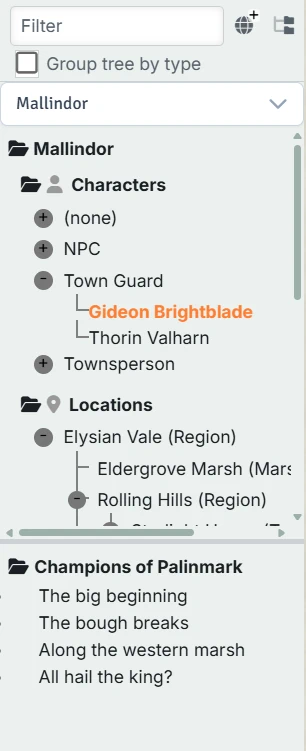
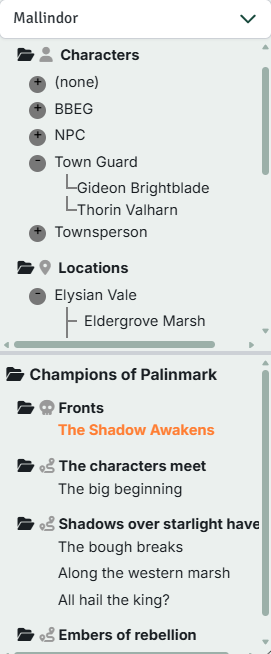
front doc updates

diff --git a/src/components/ContentTab/FrontContent/FrontDangerTab.vue b/src/components/ContentTab/FrontContent/FrontDangerTab.vue
@@ -81,13 +81,11 @@
         }"
       >
         <div class="flexrow form-group">
-          <TextArea
-            v-model="motivation"
-            rows="3"
-            data-testid="danger-motivation"
-            unstyled
-            style="width: 100%; font-family: var(--fcb-font-family)"
-            @update:model-value="onMotivationUpdate"
+          <Editor
+            :initial-content="motivation || ''"
+            fixed-height="120px"
+            :current-entity-uuid="currentFront?.uuid"
+            @editor-saved="onMotivationEditorSaved"
           />
         </div>
       </Panel>
@@ -165,7 +163,6 @@
   // debounce changes to name
   let nameDebounceTimer: NodeJS.Timeout | undefined = undefined;
   let impendingDoomTimer: NodeJS.Timeout | undefined = undefined;
-  let motivationTimer: NodeJS.Timeout | undefined = undefined;
 
   const onNameUpdate = (newName: string | undefined) => {
     const debounceTime = 500;
@@ -206,22 +203,13 @@
     }, debounceTime);
   };
 
-  const onMotivationUpdate = (newMotivation: string | undefined) => {
-    const debounceTime = 500;
-  
-    clearTimeout(motivationTimer);
+  const onMotivationEditorSaved = (newMotivation: string) => {
+    if (!currentDanger.value) return;
     
-    motivationTimer = setTimeout(async () => {
-      const newValue = newMotivation || '';
-
-      if (currentFront.value && currentDanger.value && currentDangerIndex.value !== null && currentDanger.value.motivation!==newValue) {
-        currentDanger.value.motivation = newValue;
-        currentFront.value.updateDanger(currentDangerIndex.value, currentDanger.value);
-        await currentFront.value.save();
-      }
-    }, debounceTime);
+    currentDanger.value.motivation = newMotivation;
+    saveDanger();
   };
-  
+
   const onDescriptionEditorSaved = (newContent: string) => {
     if (!currentDanger.value) return;
     

diff --git a/docs/.vitepress/config.ts b/docs/.vitepress/config.ts
@@ -79,6 +79,7 @@ export default defineConfig({
           { text: 'Campaign Management', link: '/reference/campaign-mgt/', items: [
             { text: 'Campaigns', link: '/reference/campaign-mgt/content/campaign/' },
             { text: 'Sessions', link: '/reference/campaign-mgt/content/session/' },
+            { text: 'Fronts', link: '/reference/campaign-mgt/content/front/' },
             { text: 'To-do List', link: '/reference/campaign-mgt/content/campaign/todos' },
           ] },
           { text: 'Play Mode', link: '/reference/play-mode/' },

diff --git a/src/components/ContentTab/DescriptionTab.vue b/src/components/ContentTab/DescriptionTab.vue
@@ -3,6 +3,7 @@
     <div class="tab-inner">
       <div class="fcb-description-wrapper flexrow">
         <ImagePicker
+          v-if="props.showImage"
           class="fcb-description-image"
           v-model="currentImageURL"
           :title="props.name"
@@ -43,6 +44,11 @@
     imageUrl: {
       type: String,
       default: '',
+      required: false,
+    },
+    showImage: {
+      type: Boolean,
+      default: true,
       required: false,
     },
     name: {

diff --git a/src/components/ContentTab/FrontContent/FrontContent.vue b/src/components/ContentTab/FrontContent/FrontContent.vue
@@ -7,6 +7,7 @@
           v-model="name"
           for="fcb-input-name" 
           class="fcb-input-name"
+          :showImage="false"
           unstyled
           :placeholder="localize('placeholders.frontName')"
           :pt="{

diff --git a/docs/.vitepress/theme/utils/version.ts b/docs/.vitepress/theme/utils/version.ts
@@ -1,2 +1,2 @@
 // This file is auto-generated. Do not edit directly.
-export const VERSION = '1.5.0';
+export const VERSION = '1.6.0';

diff --git a/docs/reference/campaign-mgt/content/front/dangers.md b/docs/reference/campaign-mgt/content/front/dangers.md
@@ -1,0 +1,72 @@
+---
+title: Dangers in a Front
+prev: 
+  text: 'Front Details'
+  link: '/reference/campaign-mgt/content/front'
+next: 
+  text: 'To-do List'
+  link: '/reference/campaign-mgt/content/campaign/todos'
+---
+
+# Danger Details
+
+![Danger content](/assets/images/danger-content.webp)
+
+Each [^Front] is made up of one or more [^Dangers]. A Danger is a specific threat, plotline, or situation that can move toward an [^Impending Doom] as time passes and the characters act (or fail to act).
+
+### Creating a New Danger
+
+To add a new Danger to a Front:
+
+1. Open the Front in the main content area.
+2. Click the `+` button on the Front’s tab strip.
+3. A new Danger is created and a tab for it appears.
+
+### Danger Name
+
+Click on the Danger’s name to edit it.
+
+## Danger Sections
+
+Each Danger includes the following sections:
+
+* **Overview**
+* **Participants**
+* **Motivation**
+* **Grim Portents**
+
+Each of these panels can be collapsed with the '-' button in the top right corner.
+
+### Overview
+![Danger overview](/assets/images/danger-overview.webp)
+
+The Overview panel lets you record the description for the Danger, as well as the [^Impending Doom].
+
+### Participants
+![Danger participants](/assets/images/danger-participants.webp)
+
+Participants represent the people and organizations involved in a Danger. They answer the question: *"Who is driving or affected by this threat?"*
+
+This panel has a table listing the [^Entries] (Characters or Organizations) involved in the Danger, along with their role.
+
+You can add participants by dragging and dropping them from the [^Setting Directory] or by clicking the 'Add Participant' button.
+
+Generally there will be one main Participant and their henchmen.  If Participants are on different 'sides', working toward the Front in different ways, each side should be a separate Danger.
+
+### Motivation
+![Danger motivation](/assets/images/danger-motivation.webp)
+Record the motivation for the Danger and/or the various participants.
+
+### Grim Portents
+![Danger grim portents](/assets/images/danger-portents.webp)
+Grim portents are the steps that move a Danger toward its Impending Doom. They make it easy to see what happens if the characters ignore (or worsen) the situation.
+
+Think of grim portents as a short, ordered list of events:
+
+1. The Danger advances in some visible way.
+2. The world reacts.
+3. The threat gets closer to its goal.
+
+As you play, you can check off grim portents as they occur, reflecting how the Front is progressing.
+
+You can drag rows up and down to change the order in which the grim portents appear.

diff --git a/docs/.vitepress/theme/plugins/tooltip/common-tooltips.md b/docs/.vitepress/theme/plugins/tooltip/common-tooltips.md
@@ -40,3 +40,10 @@
 [^Types]: The user-defined categorizations of Entries to assist in finding Entries within a Topic. For example, Characters might have Types such as NPC, PC, Monster, etc.; Locations could have Types such as City, Town, Dungeon, Ruin, etc.  They can be shown in the Setting tree, and are used to facilitate search and AI character description/image creation.
 [^Vignette]: Called "Scenes" by The Lazy DM, a potential element that can be used to build a session. They are not necessarily a fixed, linear script but rather a collection of ideas, encounters, or plot points that can be woven together depending on player actions and the flow of the game.
 [^Vignettes]: Called "Scenes" by The Lazy DM, potential elements that can be used to build a session. They are not necessarily a fixed, linear script but rather a collection of ideas, encounters, or plot points that can be woven together depending on player actions and the flow of the game.
+[^Front]: An organizational tool for the GM to manage larger-scale threats and story threads, ensuring the world feels dynamic and reactive even if the players aren't directly involved. Fronts are collections of dangers - forces and events that a Front moves forward according to its own timeline, regardless of player actions
+[^Fronts]: Organizational tool for the GM to manage larger-scale threats and story threads, ensuring the world feels dynamic and reactive even if the players aren't directly involved. Fronts are collections of dangers - forces and events that a Front moves forward according to its own timeline, regardless of player actions
+[^Danger]: A significant threat or an active, driving force within a larger Front
+[^Dangers]: Significant threats or active, driving forces within a larger Front
+[^Grim Portent]: A step in the timeline of a Danger that moves it toward its Impending Doom
+[^Grim Portents]: Steps in the timeline of a Danger that move it toward its Impending Doom
+[^Impending Doom]: The end-state or worst-case outcome of a Danger

diff --git a/docs/reference/navigation/sidebar.md b/docs/reference/navigation/sidebar.md
@@ -66,15 +66,20 @@ The bottom half of the Directory Sidebar is the Campaign Directory.  This shows 
 
 Each Campaign is shown as a folder.  Click the Campaign name to open a [Campaign Details tab](/reference/campaign-mgt/content/campaign/).
 
-Within each Campaign, you'll find all of its [^Sessions].  You can click on a Session to open a [Session Details tab](/reference/campaign-mgt/content/session/).  
+Within each Campaign, you'll find all of its [^Sessions] and [Fronts](/reference/campaign-mgt/content/front/).  You can click on a Session to open a [Session Details tab](/reference/campaign-mgt/content/session/) or on a Front to open a [Front Details tab](/reference/campaign-mgt/content/front/).  
 
-### Session sorting
-By default, the Sessions are sorted by session number.  You can rearrange the Sessions (i.e. change their numbers) by editing the number in [Session Details](/reference/campaign-mgt/content/session/).
+### Session display
+Sessions are sorted by session number.  You can rearrange the Sessions (i.e. change their numbers) by editing the number in [Session Details](/reference/campaign-mgt/content/session/).
+
+
+By default, Sessions are shown with their number in the directory.  You can hover over a Session to see its name and date.  You can also choose to show the Sessions by name and/or date in [Module Settings].
 
 ### Context menus
 Right-clicking on items in the Campaign tree provides additional options depending on the item type:
-1. Campaign - Create a session, Delete the Campaign, Mark Campaign Complete/Active
+1. Campaign - Create a session, Create a Front, Delete the Campaign, Mark Campaign Complete/Active
 2. Session - Delete the Session
+3. Fronts folder - Create a front
+4. Front - Delete the Front
 
 "Completing" a campaign does not remove any of the data associated with it, but has the following effects:
 - Grays it out and keeps it collapsed in the tree

diff --git a/docs/guide/session-prep/index.md b/docs/guide/session-prep/index.md
@@ -20,6 +20,7 @@ Before prepping for a session, you first have to create the overall [^Campaign] 
 * [Create](/reference/campaign-mgt/content/campaign/) your Campaign
 * Attach the [PCs](/reference/campaign-mgt/content/campaign/pcs) to the campaign
 * Start to capture your [Ideas](/reference/campaign-mgt/content/campaign/ideas)
+* Create or update [Fronts](/reference/campaign-mgt/content/front/) to track long-term threats and storylines for the campaign
 
 ### Sessions
 * Review [PCs](/reference/campaign-mgt/content/session/pcs) - think through plot points to bring in to the next game
@@ -41,6 +42,17 @@ Before prepping for a session, you first have to create the overall [^Campaign] 
 * [Campaign Directory](/reference/navigation/sidebar#campaign-directory)
 * [Campaign Details](/reference/campaign-mgt/content/campaign/)
 * [Session Details](/reference/campaign-mgt/content/session/)
+* [Front Details](/reference/campaign-mgt/content/front/)
+
+## Fronts and long-term threats
+[Fronts] are an optional tool for tracking larger-scale threats and story threads across many sessions. A [^Front] is made up of one or more [^Dangers], each with [^Grim Portents] and an [^Impending Doom].
+
+If you like to think about how the world changes off-screen, or want to keep track of villain plans and looming disasters, Fronts give you a home for that work:
+- During **World Building**, you create the people, places, and organizations that Fronts will later reference.
+- During **Session Prep**, you can update Fronts so their Dangers are ready to intersect with the next session.  You can mark Grim Portents complete as events unfold.
+- When you **Record Results**, you can adjust Fronts based on what actually happened at the table.
+
+You can safely ignore Fronts if you don’t need this level of structure, or turn them off entirely in [Module Settings].
 
 ## Sample Session Preparation Walkthrough
 

diff --git a/docs/guide/session-play/index.md b/docs/guide/session-play/index.md
@@ -30,49 +30,5 @@ Time for the fun!  Campaign Builder has a variety of tools and techniques to run
 * [Name-Generation Buttons](/reference/play-mode/name-generation)
 * [Session Links](/reference/play-mode/session-links)
 * [Campaign To-do List](/reference/campaign-mgt/content/campaign/todos)
+* [Front Details](/reference/campaign-mgt/content/front/)
 
-
-<!-- # Playing a Session
-
-The module provides several features to help you run your game smoothly.
-
-## Session Management
-
-During a session:
-1. Open the Campaign Planning tab
-
-2. Select the current session
-
-3. Use the various tabs to access your prepared content
-
-4. Mark elements as "used" or "revealed" as appropriate
-
-## Quick Access
-
-The module provides quick access to:
-- Foundry Scenes linked to your Locations
-- Foundry Actors linked to your Characters
-- Foundry Items linked to your magic items
-
-Simply click the appropriate icon next to an element to access it. Context menus are also available for additional options.
-
-## Note Taking
-
-You can take notes during the session:
-1. In your session, click the "Notes" tab
-
-2. Enter your notes
-
-3. Click "Save"
-
-Entering play mode will (assuming you have the setting turned on in Module Settings) automatically open a separate window
-that is tied to the notes of the current session.  This can make it easier to take quick notes without needing to change your tab, etc.
-inside the main window.  
-
-Changes in one spot will be reflected in the other when you save. -->
-
-<!-- - [Running Your Session](session-play/index.md)
-- [Managing Content During Gameplay](session-play/gameplay-management.md)
-- [Tracking Session Progress](session-play/progress-tracking.md)
-- [Real-Time Content Creation](session-play/realtime-content.md)
-- [Post-Session Activities](session-play/post-session.md) -->

diff --git a/docs/reference/campaign-mgt/content/front/index.md b/docs/reference/campaign-mgt/content/front/index.md
@@ -1,0 +1,44 @@
+---
+title: Front Details
+prev: 
+  text: 'Campaign Details'
+  link: '/reference/campaign-mgt/content/campaign'
+next: 
+  text: 'Dangers'
+  link: '/reference/campaign-mgt/content/front/dangers'
+---
+# Front Details
+
+![Front content](/assets/images/front-content.webp)
+
+> [!INFO]
+> Fronts are an optional feature and can be disabled in the [Module Settings].
+
+Fronts provide a way to track long‑term threats and storylines in your [^Campaign]. Each front gathers one or more [^Dangers] (major threats), the people and factions involved, and the grim portents that show how the Danger advances over time.
+
+Fronts live inside a single Campaign and are shown in the **Campaign Directory** under that Campaign. They give you a high‑level view of what might go wrong and how those threats will unfold across many sessions.
+
+For more information on how to use Fronts, see:
+* https://www.dungeonworldsrd.com/gamemastering/fronts/
+* https://slyflourish.com/looking_back_on_fronts.html
+
+## Front Header
+
+  1. Name - You can click the Front's name to edit it.
+
+  2. [Tags](/reference/navigation/tags) - An easy way to categorize Fronts. Particularly helpful for [searching](/reference/navigation/search). 
+
+## Tabs
+
+Fronts have the following tabs where you can manage their details:
+
+* Description - The description of the front, and an optional image
+* [Dangers](./dangers) - Each Danger in the front has its own tab.  
+
+## Creating a Danger
+
+You create Dangers by clicking the "+" in the Front tab strip.
+
+## Deleting a Danger
+
+You delete Dangers by right-clicking on the Danger tab.

diff --git a/docs/reference/navigation/tags.md b/docs/reference/navigation/tags.md
@@ -1,8 +1,8 @@
 ---
 title: Tags
 prev: 
-  text: 'Session Details'
-  link: './index'
+  text: ''
+  link: ''
 next: 
   text: ''
   link: ''
@@ -11,12 +11,15 @@ next:
 # Tags
 ![Tags](/assets/images/tags.webp)
 
-In the tags input, you can assign tags to your Sessions.  
+In the tags input, you can assign tags to your Sessions, Entries, Arcs, and Fronts.  
 
-Tags allow you to capture key data about [^Sessions] to see at a glance.  Tags are given strong preference when [searching](/reference/navigation/search) (the same as name), so they are a powerful way to find your Sessions quickly.
+Tags allow you to capture key data about [^Sessions], [^Entries], [^Arcs], and [^Fronts] to see at a glance.  Tags are given strong preference when [searching](/reference/navigation/search) (the same as name), so they are a powerful way to find your content quickly.
 
 ## Adding tags
 To add a tag, simply start typing. As you type, you'll get an auto-complete showing other tags you've already used.  A given tag is assigned a random color, but that color will be the same across all Sessions with that tag, making it easy to identify.  
+
+> [!NOTE]
+> Tags are not shared across Sessions, Entries, etc. - each of those has its own set.
 
 ## Creating tags
 To create a new tag, simply type it in and hit Enter/Tab. It will be assigned a new, random color. 
